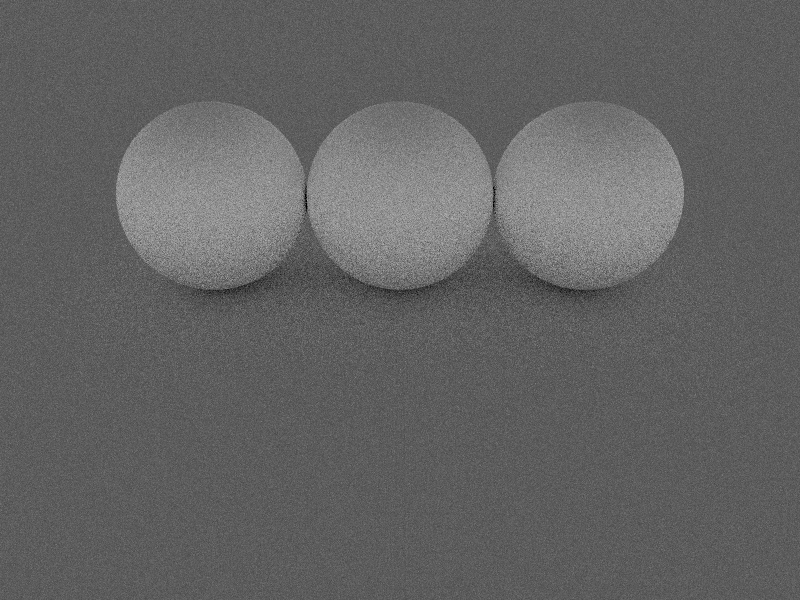
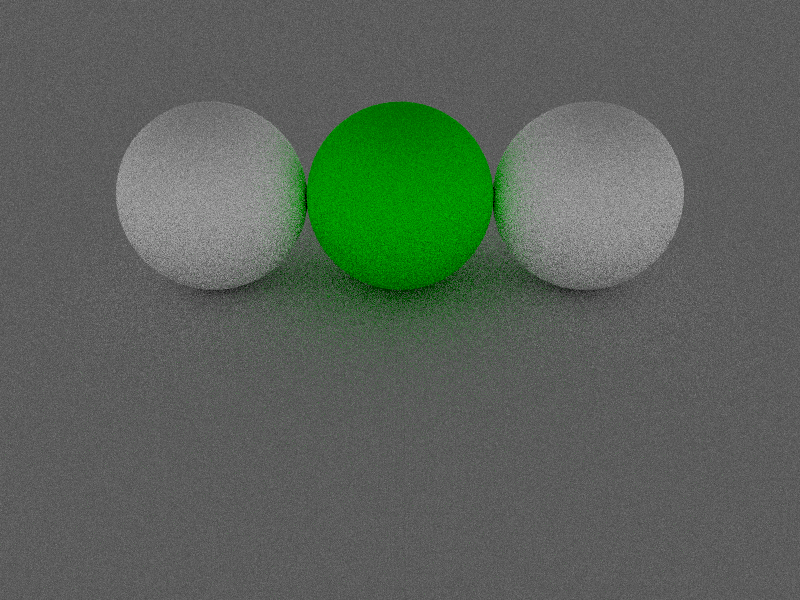
green diffuse sphere

Changed region(s): [[0.3125, 0.15, 0.6875, 0.6]]

diff --git a/main.cpp b/main.cpp
@@ -218,7 +218,7 @@ int main(int argc, char** argv)
     World world;
     world.add (new Sphere(float3( 0.0f, -100.5f, -1.0f), 100.0f, new Lambertian(float3(0.75f, 0.75f, 0.75f))));
     world.add (new Sphere(float3( 1.0f,    0.0f, -1.0f),   0.5f, new Lambertian(float3(1.0f, 1.0f, 1.0f))));
-    world.add (new Sphere(float3( 0.0f,    0.0f, -1.0f),   0.5f, new Lambertian(float3(1.0f, 1.0f, 1.0f))));
+    world.add (new Sphere(float3( 0.0f,    0.0f, -1.0f),   0.5f, new Lambertian(float3(0.0f, 1.0f, 0.0f))));
     world.add (new Sphere(float3(-1.0f,    0.0f, -1.0f),   0.5f, new Lambertian(float3(1.0f, 1.0f, 1.0f))));
 
     auto start = chrono::steady_clock::now();
